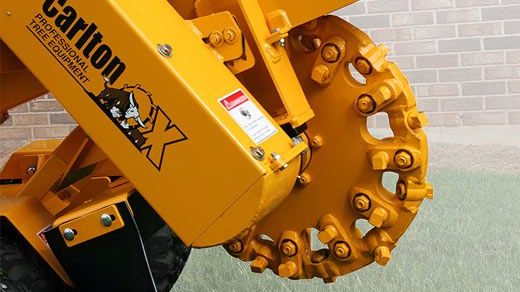
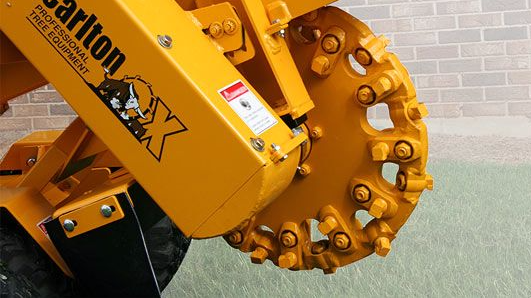
create github pages

diff --git a/index.html b/index.html
@@ -124,7 +124,7 @@ Please Call or Text for a Free Estimate! &nbsp;</p>
             <div class="card mbr-col-sm-12 mbr-col-md-6">
                 <div class="card-wrapper">
                     <div class="card-img">
-                        <amp-img src="assets/images/stump-removal-in-indianapolis-8-1920x1200.jpg" layout="responsive" width="540.8000000000001" height="338" alt="Mobirise">
+                        <amp-img src="assets/images/stump-grinding-in-indianapolis-4-1814x1057.jpg" layout="responsive" width="540.5209513023783" height="304" alt="Mobirise">
                             
                         </amp-img>
                     </div>
@@ -220,7 +220,7 @@ Please Call or Text for a Free Estimate! &nbsp;</p>
 
         <div class="mbr-row mbr-justify-content-center">
             <div class="mbr-col-lg-6  mbr-col-md-10 " data-form-type="formoid">
[2 lines of base64/hex data omitted]
                     <div submit-success="">
                         <template data-form-alert="" type="amp-mustache">Thanks for writing!  We'll be in touch soon.</template>
                     </div>
